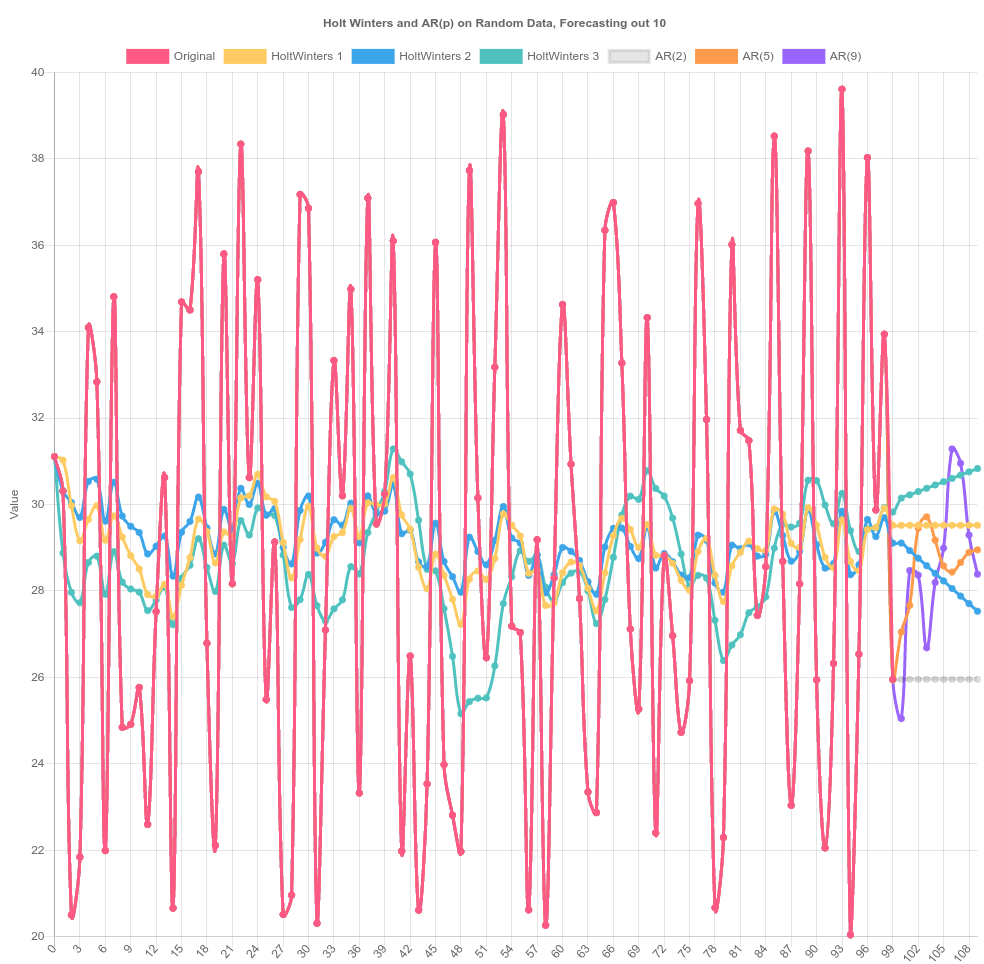
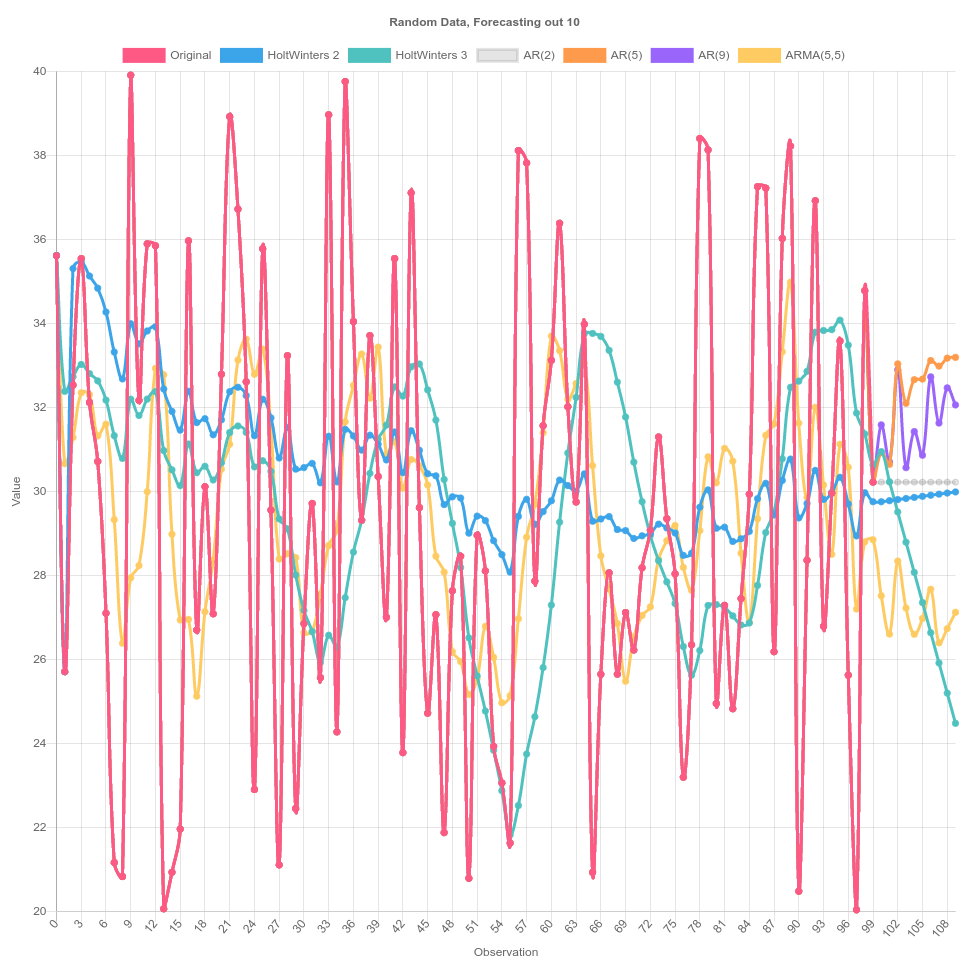
update demo

diff --git a/demo.js b/demo.js
@@ -9,9 +9,11 @@ res3 = s3.fit()
 ar2 = new AutoRegression(j, {p:2})
 ar5 = new AutoRegression(j, {p:5})
 ar9 = new AutoRegression(j, {p:9})
+arma55 = new ARMA(j, {p:5, q:5})
 ar2.fit()
 ar5.fit()
 ar9.fit()
+res7 = arma55.fit()
 r0 = []
 r1 = []
 r2 = []
@@ -19,6 +21,7 @@ r3 = []
 r4 = []
 r5 = []
 r6 = []
+r7 = []
 s = []
 b = []
 c = []
@@ -33,6 +36,7 @@ fs3 = s3.forecast(f)
 far2 = ar2.forecast(f)
 far5 = ar5.forecast(f)
 far9 = ar9.forecast(f)
+farma55 = arma55.forecast(f)
 for (let i=0; i<j.length; i++){
   r0[i] = j[i]
   r1[i] = res1[i]
@@ -41,10 +45,12 @@ for (let i=0; i<j.length; i++){
   r4[i] = j[i]
   r5[i] = j[i]
   r6[i] = j[i]
+  r7[i] = res7[i]
   l[i] = i
   s[i] = s3.S[i]
   b[i] = s3.B[i]
   c[i] = s3.C[i]
+
 }
 for (let i=0; i<f; i++){
   let m = i + j.length
@@ -55,6 +61,7 @@ for (let i=0; i<f; i++){
   r4[m] = far2[i]
   r5[m] = far5[i]
   r6[m] = far9[i]
+  r7[m] = farma55[i]
 }
 
 window.chartColors = {
@@ -79,12 +86,6 @@ window.smoothChart = new Chart(ctx1, {
 					borderColor: window.chartColors.red,
 					data: r0,
 					fill: false,
-				}, {
-					label: 'HoltWinters 1',
-					fill: false,
-					backgroundColor: window.chartColors.yellow,
-					borderColor: window.chartColors.yellow,
-					data: r1,
 				}, {
 					label: 'HoltWinters 2',
 					fill: false,
@@ -115,13 +116,19 @@ window.smoothChart = new Chart(ctx1, {
 					backgroundColor: window.chartColors.purple,
 					borderColor: window.chartColors.purple,
 					data: r6,
+				},{
+					label: 'ARMA(5,5)',
+					fill: false,
+					backgroundColor: window.chartColors.yellow,
+					borderColor: window.chartColors.yellow,
+					data: r7,
 				}]
     },
     options: {
   responsive: true,
   title: {
     display: true,
-    text: 'Holt Winters and AR(p) on Random Data, Forecasting out ' + f
+    text: 'Random Data, Forecasting out ' + f
   },
   tooltips: {
     mode: 'index',
